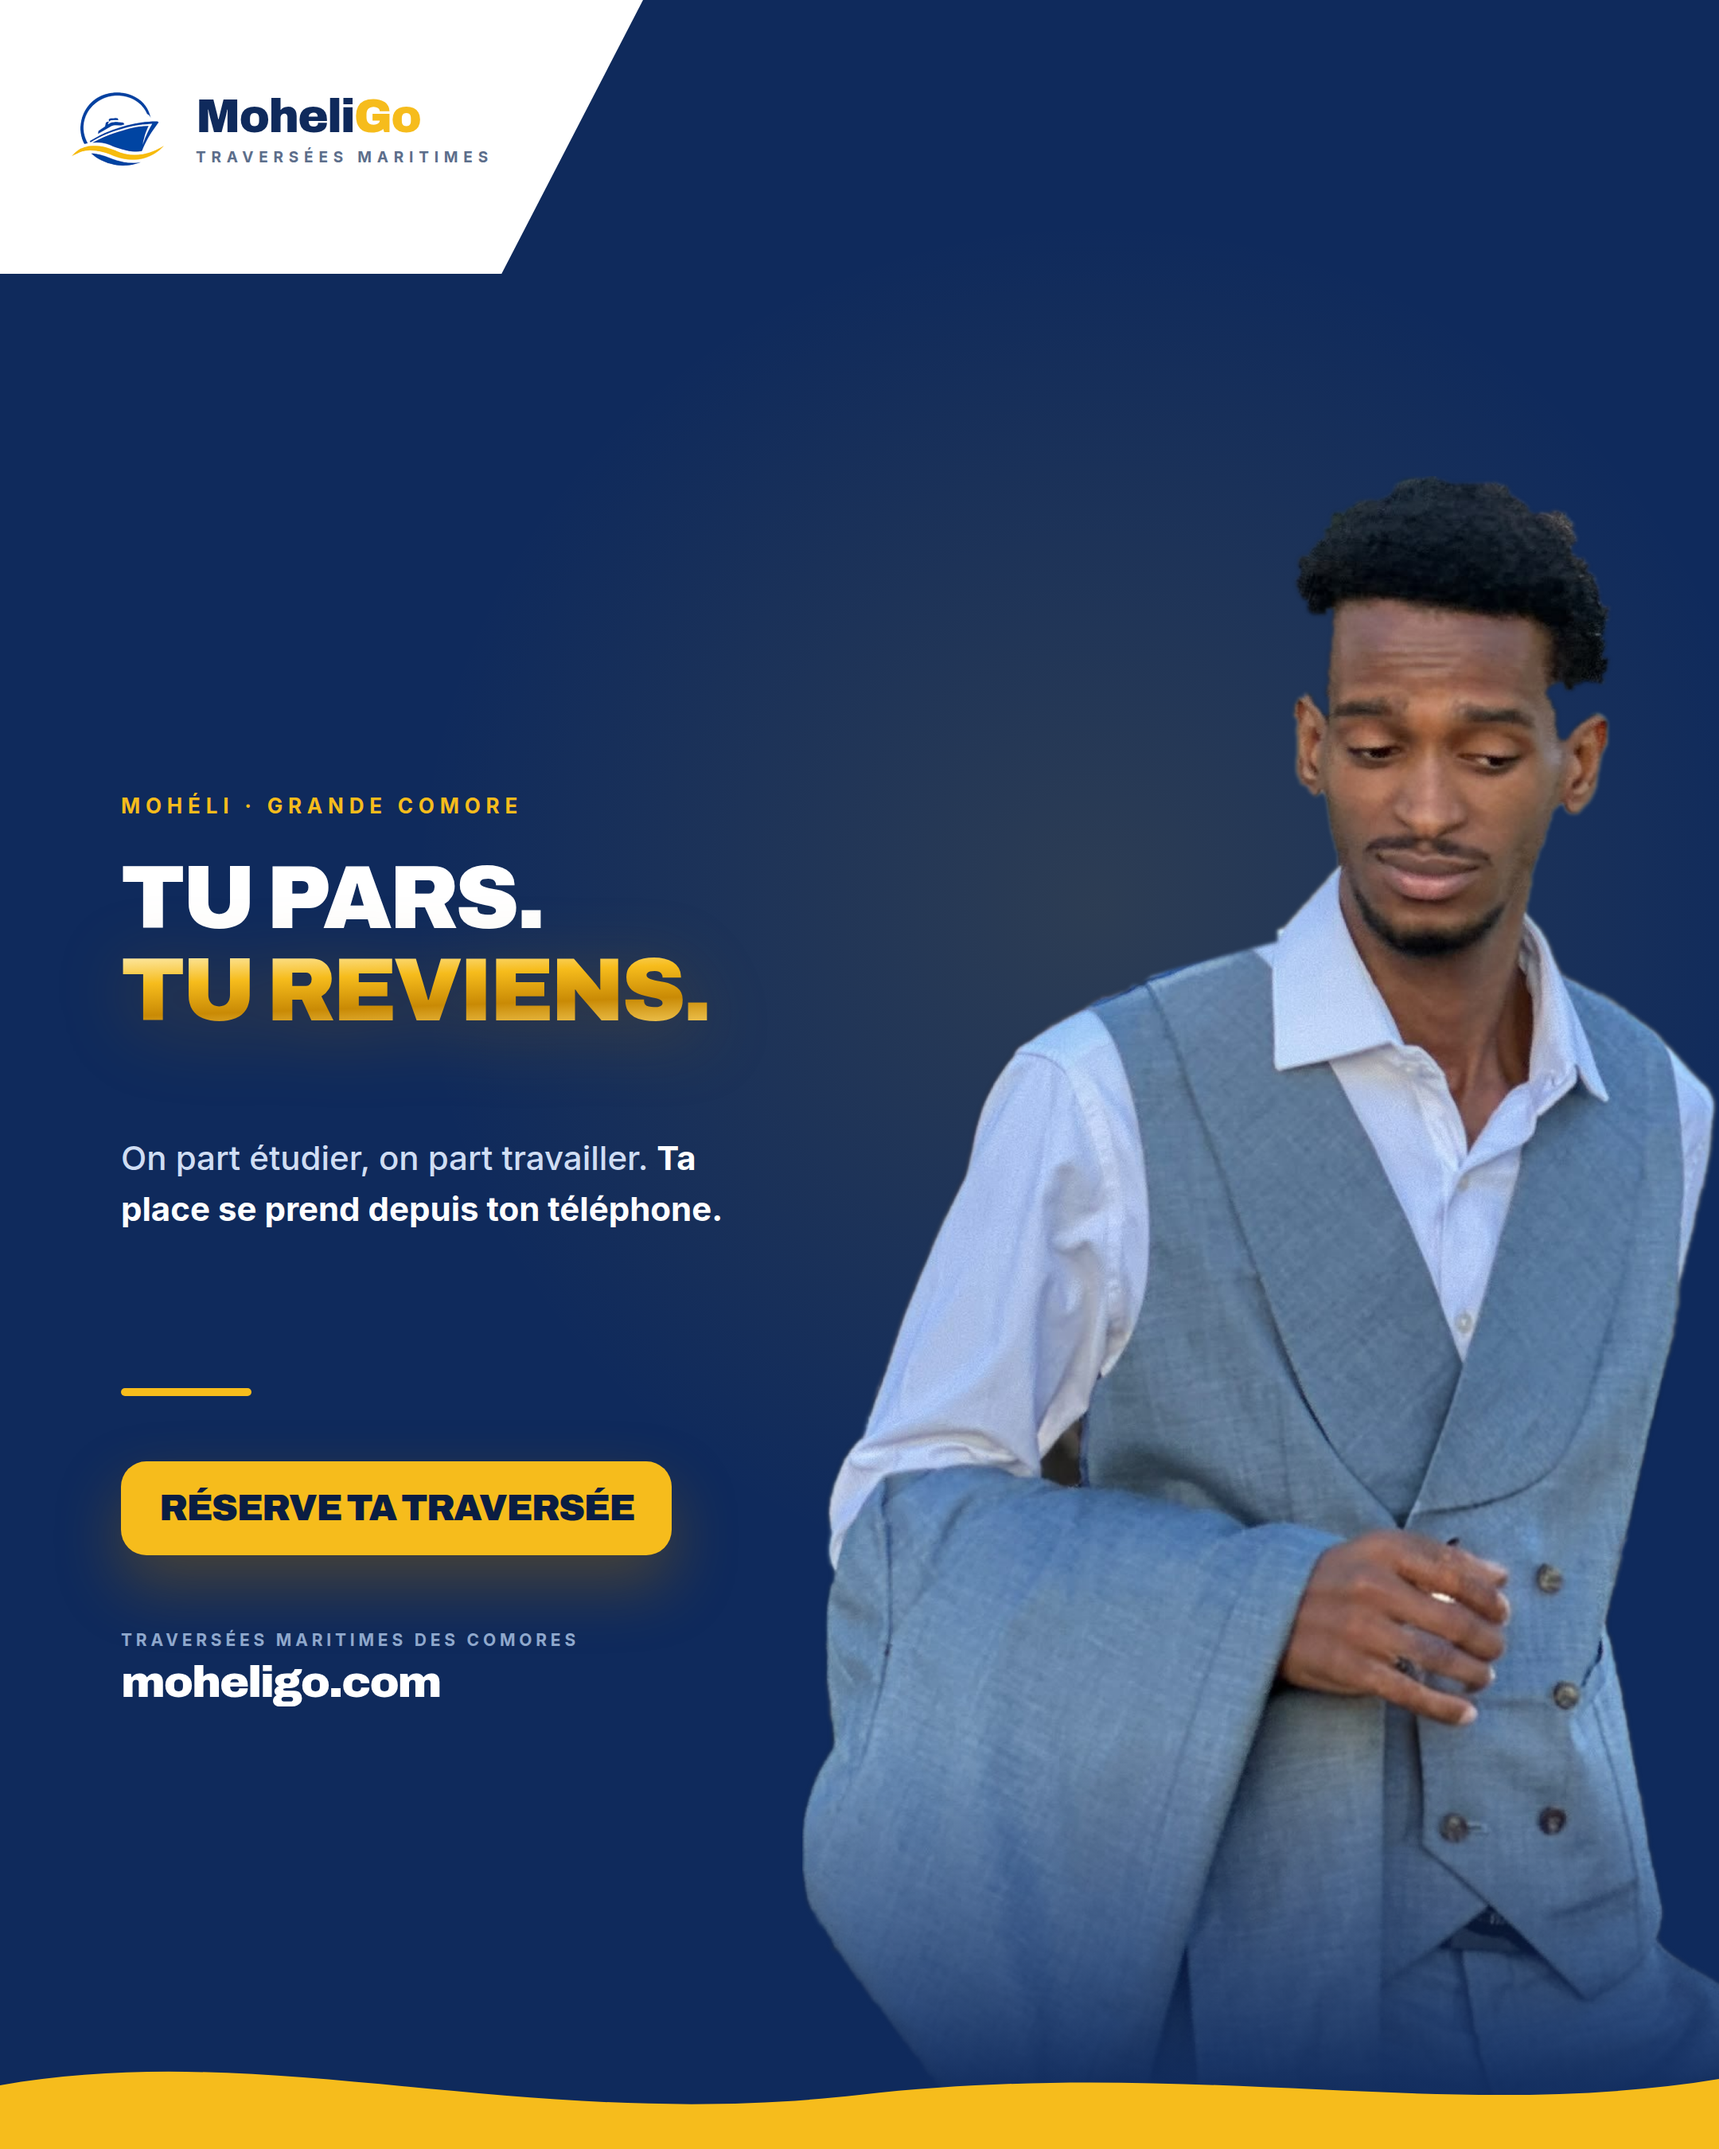
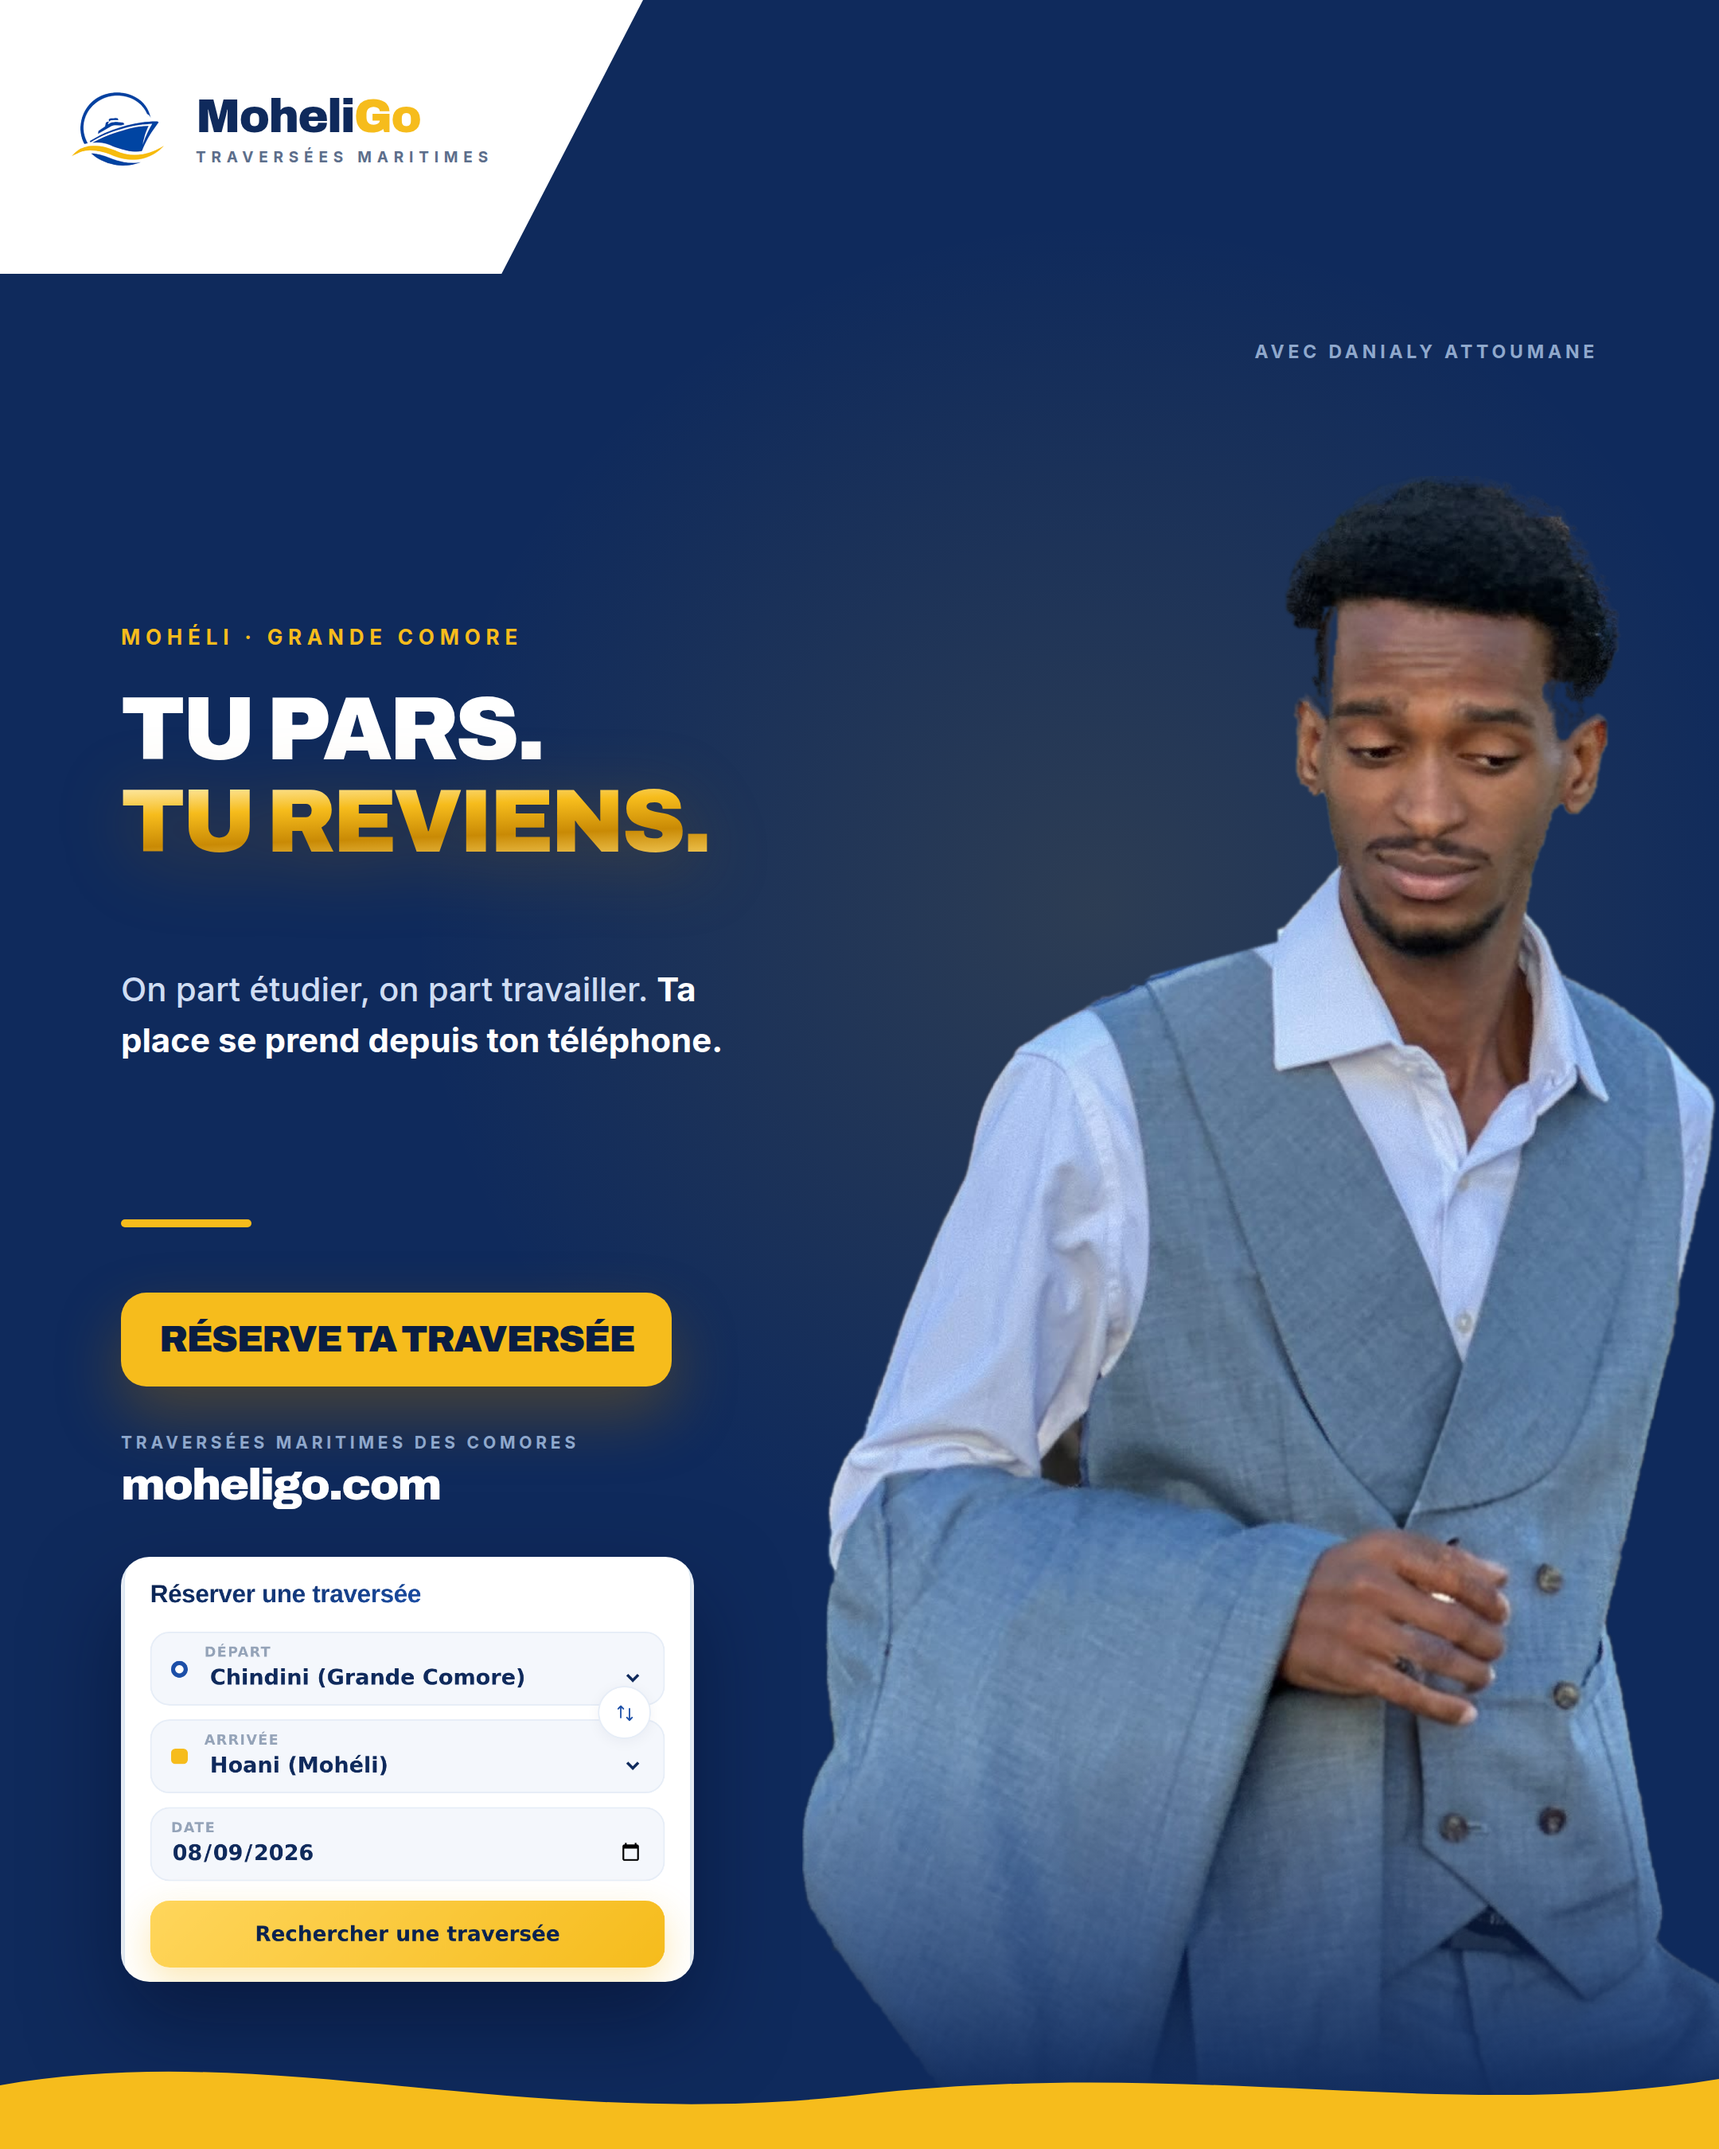
Les cheveux se detourent en douceur, et l'ecran de l'appli entre dans le visuel
Le patron, deux fois : « regarde les cheveux », puis « la coiffure est mal
faite ». La forme etait juste depuis la correction du polygone, mais le bord
restait net comme du papier decoupe — or des cheveux crepus n'ont pas de bord
net, c'est exactement ce qui les trahit.

UN MASQUE BINAIRE NE PEUT PAS DECRIRE DES CHEVEUX. Il faut de l'alpha PARTIEL.
On l'obtient par la seule chose qui les separe vraiment ici, mesuree :
cheveux 27 · bord des cheveux 52 · bokeh 86 · tronc 100. Entre 25 et 85, la
clarte donne directement l'opacite. 9 707 pixels en opacite partielle.

Trois garde-fous, chacun ne pour un defaut vu :
- applique SEULEMENT dans un anneau autour du crane, et au-dessus des oreilles :
  sur le corps, la meme regle rendrait le visage transparent, la peau etant
  claire ;
- les feuilles sombres ont la meme clarte que les cheveux — une tache verte
  restait accrochee. Retiree par la teinte ;
- la zone ne s'arrete plus d'un coup a y=1080 : couper net y laissait une arete.
  L'influence se fond sur 80 px.

L'ECRAN DE L'APPLI, demande le meme soir : « mets aussi un ecran pour faire
original, mais toujours l'emotion. » C'est le § 1 de la norme, un seul univers
deux moments — le portrait ouvre, la carte de reservation livre. On n'a pris QUE
le bloc « Reserver une traversee » : un ecran entier a cette taille ne se lit
pas, et ce qui ne se lit pas ne prouve rien. Sa date se regenere avant chaque
publication.
[…]

diff --git a/moheligo/pub/flyers/flyer47-etudes-fb.html b/moheligo/pub/flyers/flyer47-etudes-fb.html
@@ -19,10 +19,22 @@
 
      ✅ CE QUE CE VISUEL AFFIRME, ET C’EST TOUT : que beaucoup de Mohéliens
      partent étudier ou travailler, et qu’on réserve depuis son téléphone.
-     Aucune affirmation sur la personne photographiée — ni son nom, ni ses
-     études, ni aucune appartenance. Elle est le VISAGE de la traversée, pas
-     un cas nommé. C’est aussi ce qui protège sa vie privée : ce qu’il fait
-     dans la vie ne regarde pas une page Facebook.
+     Il porte le nom de la personne — **Danialy Attoumane**, donné par le patron
+     le 01/09 — et RIEN D’AUTRE sur elle : ni ses études, ni aucune
+     appartenance. Un crédit, pas une biographie. Ce qu’il fait dans la vie ne
+     regarde pas une page Facebook, et un visage peut être le visage d’une idée
+     sans être un cas nommé.
+
+     📱 L’ÉCRAN DE L’APPLI, demandé le 01/09 : « mets aussi un écran de l’appli
+     pour faire original, mais toujours l’émotion. » C’est exactement le § 1 de
+     la norme — un seul univers, deux moments. Le portrait ouvre (l’émotion),
+     la carte de réservation livre (le produit), sans changer de lumière ni de
+     calme. On n’a pris QUE le bloc « Réserver une traversée » : un écran entier
+     à cette taille ne se lit pas, et ce qui ne se lit pas ne prouve rien.
+     ⚠ La date affichée est calculée à « aujourd’hui + 7 jours » et se
+     REGÉNÈRE avant chaque publication (`demo/ecrans/capture.js`). Un post reste
+     sur la page pour toujours : une date passée y ferait croire que le service
+     est mort (norme § 7.3).
 
      ⚠ CE QUI RESTE À RÉGLER AVANT PUBLICATION — et ça ne dépend pas de moi :
      son ACCORD. Norme § 7.2 : jamais l’image d’une personne sans son accord
@@ -71,7 +83,7 @@ body { width:1080px; height:1350px; font-family:'Inter',sans-serif; -webkit-font
 .coin small { display:block; font-size:9.5px; font-weight:700; letter-spacing:3.4px;
   color:#5C6E8B; margin-top:5px; }
 
-.sur { position:absolute; left:76px; top:498px; z-index:5; font-size:13px;
+.sur { position:absolute; left:76px; top:392px; z-index:5; font-size:13px;
   font-weight:700; letter-spacing:3.4px; color:#F6BC1C; }
 
 /* 🚩 « TES ÉTUDES LÀ-BAS. TA FAMILLE ICI. » A ÉTÉ ABANDONNÉ, ET C’EST `lignes.js`
@@ -88,7 +100,7 @@ body { width:1080px; height:1350px; font-family:'Inter',sans-serif; -webkit-font
    ✅ « TU PARS. TU REVIENS. » : quatre mots, deux lignes vérifiées au rendu, et
    c’est la même famille que notre meilleure ligne (« on ne visite pas Mohéli,
    on y revient », 9/10 en relecture extérieure). */
-.acc { position:absolute; left:76px; top:536px; width:400px; z-index:5;
+.acc { position:absolute; left:76px; top:430px; width:400px; z-index:5;
   font-family:'Archivo',sans-serif; font-weight:900; font-size:56px; line-height:1.04;
   letter-spacing:-2px; color:#fff; }
 .acc span { display:block;
@@ -96,24 +108,41 @@ body { width:1080px; height:1350px; font-family:'Inter',sans-serif; -webkit-font
   -webkit-background-clip:text; -webkit-text-fill-color:transparent;
   filter:drop-shadow(0 8px 22px rgba(150,100,4,.38)); }
 
-.dit { position:absolute; left:76px; top:712px; width:392px; z-index:5;
+.dit { position:absolute; left:76px; top:606px; width:392px; z-index:5;
   font-size:21px; line-height:1.52; color:#CFDDF3; }
 .dit b { color:#fff; font-weight:700; }
 
-.trait { position:absolute; left:76px; top:872px; width:82px; height:5px;
+.trait { position:absolute; left:76px; top:766px; width:82px; height:5px;
   border-radius:3px; background:#F6BC1C; z-index:5; }
 
-.cta { position:absolute; left:76px; top:918px; z-index:5;
+.cta { position:absolute; left:76px; top:812px; z-index:5;
   background:#F6BC1C; border-radius:16px; padding:17px 24px; display:inline-block;
   font-family:'Archivo',sans-serif; font-weight:900; font-size:23px;
   color:#0A1D42; letter-spacing:-.8px; white-space:nowrap;
   box-shadow:0 18px 40px rgba(150,100,4,.42); }
 
-.web { position:absolute; left:76px; top:1024px; z-index:5;
+.web { position:absolute; left:76px; top:900px; z-index:5;
   font-family:'Archivo',sans-serif; font-weight:900; font-size:28px;
   color:#fff; letter-spacing:-1.1px; }
 .web small { display:block; font-family:'Inter',sans-serif; font-size:10.5px;
   font-weight:700; letter-spacing:2.4px; color:#8FA8CC; margin-bottom:4px; }
+
+/* 📱 LA CARTE DE L’APPLI — le moment PRODUIT. Elle est posée dans la colonne
+   de gauche, sous l’appel à l’action : on donne d’abord envie, puis on montre
+   que c’est faisable. L’ombre la décolle du marine sans l’encadrer d’un trait,
+   qui ferait « capture d’écran collée ». */
+.appli { position:absolute; left:76px; top:978px; width:360px; z-index:5;
+  border-radius:18px; overflow:hidden;
+  box-shadow:0 26px 56px rgba(4,12,40,.5); }
+.appli img { width:100%; display:block; }
+
+/* 🚩 LE CRÉDIT EST EN HAUT À DROITE, ET C’EST UNE CORRECTION. Il était en bas
+   à droite, posé sur son pantalon : gris clair sur gris moyen, illisible. Un
+   crédit qu’on ne peut pas lire ne crédite personne.
+   Ici il est sur le marine nu, au-dessus de sa tête — la seule grande zone
+   vide du visuel, et le contraste y est franc. */
+.credit { position:absolute; right:76px; top:214px; z-index:5; text-align:right;
+  font-size:11.5px; font-weight:700; letter-spacing:2.4px; color:#8FA8CC; }
 
 .vague { position:absolute; left:0; bottom:0; width:1080px; height:74px; z-index:7; }
 </style>
@@ -137,6 +166,9 @@ body { width:1080px; height:1350px; font-family:'Inter',sans-serif; -webkit-font
   <div class="trait"></div>
   <div class="cta">RÉSERVE TA TRAVERSÉE</div>
   <div class="web"><small>TRAVERSÉES MARITIMES DES COMORES</small>moheligo.com</div>
+
+  <div class="appli"><img src="ecran-reserver.png" alt=""></div>
+  <div class="credit">AVEC DANIALY ATTOUMANE</div>
 
   <svg class="vague" viewBox="0 0 1080 74" preserveAspectRatio="none">
     <path d="M0,34 C170,4 330,64 540,40 C750,16 910,58 1080,30 L1080,74 L0,74 Z" fill="#F6BC1C"/>

diff --git a/moheligo/pub/photos/detourer-portrait.py b/moheligo/pub/photos/detourer-portrait.py
@@ -92,8 +92,41 @@ ys, xs = np.where(s > 0)
 print('sujet : x %d..%d, y %d..%d — %.1f %% de l’image' %
       (xs.min(), xs.max(), ys.min(), ys.max(), s.mean() / 2.55))
 
-alpha = cv2.GaussianBlur(s, (0, 0), 2.0).astype(np.float32) / 255.
+# ── 🚩 LES CHEVEUX SE DÉTOURENT EN DOUCEUR, PAS AU COUTEAU ──────────────────
+# Le patron, deux fois : « regarde les cheveux », puis « la coiffure est mal
+# faite ». Le contour était juste de FORME mais net comme du papier découpé —
+# or des cheveux crépus n'ont pas de bord net, c'est ce qui les trahit.
+# 📌 Un masque binaire ne peut pas décrire des cheveux. Il faut de l'alpha
+# PARTIEL, et pour l'obtenir on se sert de la seule chose qui les distingue
+# vraiment ici : ils sont beaucoup plus sombres que tout ce qui les entoure.
+# Mesuré : cheveux 27 · bord des cheveux 52 · bokeh 86 · tronc 100.
+# Entre 25 et 85, la clarté donne donc directement l'opacité.
+# ⚠ APPLIQUÉ SEULEMENT DANS UN ANNEAU AUTOUR DU CRÂNE, et seulement au-dessus
+# des oreilles (y < 1080). Sur tout le corps, la même règle mangerait le visage
+# — la peau est claire, elle deviendrait transparente.
+alpha = s.astype(np.float32) / 255.
+ZONE = 1080
+anneau = (cv2.dilate(s, np.ones((31, 31), np.uint8)) > 0) & \
+         (cv2.erode(s, np.ones((9, 9), np.uint8)) == 0)
+anneau[ZONE:, :] = False
+V = im.max(2).astype(np.float32)
+doux = np.clip((85.0 - V) / 60.0, 0, 1)
+# ⚠ LES FEUILLES SOMBRES SONT SOMBRES ELLES AUSSI. Une feuille dans l'ombre a
+# la même clarté que les cheveux : la règle lui donnait de l'opacité, et une
+# tache verte restait accrochée en haut à gauche du crâne. On la retire par la
+# teinte — les cheveux sont neutres, le feuillage est vert (mesuré : 20-90).
+tt = cv2.cvtColor(im, cv2.COLOR_BGR2HSV)
+doux[(tt[..., 0] >= 20) & (tt[..., 0] <= 90) & (tt[..., 1] > 25)] = 0
+# ⚠ ET LA ZONE NE S'ARRÊTE PAS D'UN COUP. Couper net à y=1080 laissait une
+# arête là où le traitement cessait. On fond l'influence sur les 80 px du bas.
+yy = np.arange(H, dtype=np.float32)[:, None]
+poids = np.clip((ZONE - yy) / 80.0, 0, 1) * np.ones((1, L), np.float32)
+alpha[anneau] = (poids * doux + (1 - poids) * alpha)[anneau]
+print('anneau des cheveux : %d px, dont %d en opacite partielle'
+      % (anneau.sum(), ((alpha > .05) & (alpha < .95) & anneau).sum()))
+alpha = cv2.GaussianBlur(alpha, (0, 0), 1.2)
 c = np.clip(im.astype(np.float32) * alpha[..., None] + MARINE * (1 - alpha[..., None]), 0, 255)
+cv2.imwrite('alpha-doux.png', (alpha * 255).astype(np.uint8))
 cv2.imwrite('sur-marine.png', c.astype(np.uint8))
 cv2.imwrite('alpha.png', s)
 cv2.imwrite('zoom-epaule.png', cv2.resize(c[1050:1450, 1050:1450].astype(np.uint8), (500, 500)))
